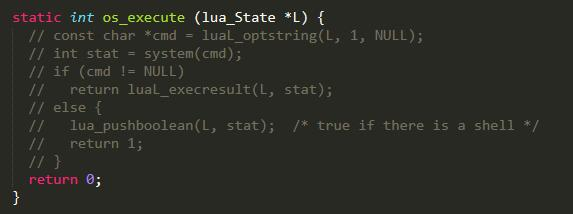
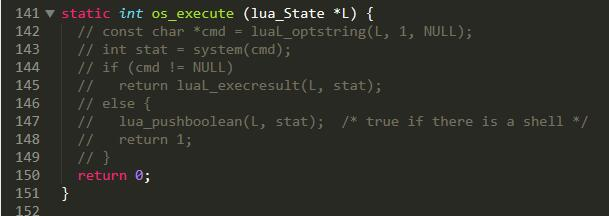
oslib

Changed region(s): [[0.0, 0.028, 0.9791, 1.0]]

diff --git a/lua-5.3.4/src/loslib.c b/lua-5.3.4/src/loslib.c
@@ -139,14 +139,15 @@ static time_t l_checktime (lua_State *L, int arg) {
 
 
 static int os_execute (lua_State *L) {
-  const char *cmd = luaL_optstring(L, 1, NULL);
-  int stat = system(cmd);
-  if (cmd != NULL)
-    return luaL_execresult(L, stat);
-  else {
-    lua_pushboolean(L, stat);  /* true if there is a shell */
-    return 1;
-  }
+  // const char *cmd = luaL_optstring(L, 1, NULL);
+  // int stat = system(cmd);
+  // if (cmd != NULL)
+  //   return luaL_execresult(L, stat);
+  // else {
+  //   lua_pushboolean(L, stat);  /* true if there is a shell */
+  //   return 1;
+  // }
+  return 0;
 }
 
 
